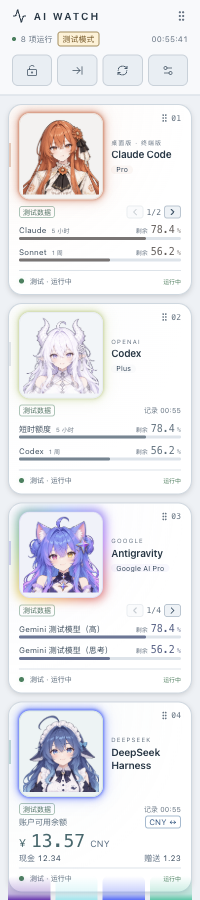
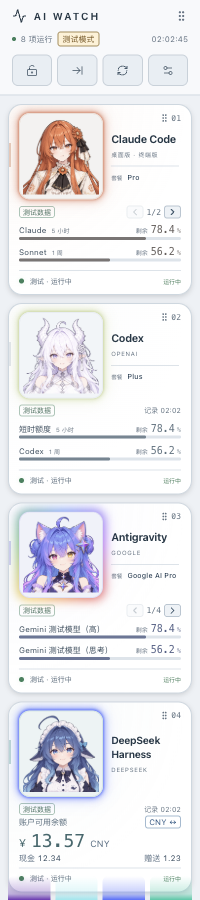
Refine anime card typography and information hierarchy

diff --git a/src/App.tsx b/src/App.tsx
@@ -98,15 +98,16 @@ function creditNumber(value: string) {
     return number.toFixed(2).replace(/\.?0+$/, '').replace(/^$/, '0');
   } catch { return '—'; }
 }
-function PlanBadge({ provider }: { provider: Provider }) {
+function PlanBadge({ provider, compact = false }: { provider: Provider; compact?: boolean }) {
   const local = provider.local;
   const plan = local?.plan;
   const expired = Boolean(plan?.expiresAt && Date.parse(plan.expiresAt) <= Date.now());
   const label = plan?.name || (local ? '套餐未知' : '示例套餐');
+  const displayLabel = compact && !plan?.name ? local ? '未知' : '示例' : label;
   const state = plan?.name ? plan.stale ? '历史' : expired ? '已到期' : '' : '';
   return <div className={`plan-summary ${plan?.stale ? 'is-stale' : ''}`} aria-label={`${provider.name} 套餐档位`}
     title={[`套餐：${label}`, plan?.status, state, plan?.expiresAt ? `有效期至 ${new Date(plan.expiresAt).toLocaleString('zh-CN')}` : ''].filter(Boolean).join(' · ')}>
-    <span className="plan-name">{label}</span>{state && <span className="plan-status">{state}</span>}
+    <span className="plan-name">{displayLabel}</span>{state && <span className="plan-status">{state}</span>}
   </div>;
 }
 function EntitlementCard({ provider, page }: { provider: Provider; page: number }) {
@@ -151,7 +152,7 @@ function ProviderCard({ provider, index, image, anime = false, onOpen, launchBus
     aria-label={`${provider.name} 面板`} data-provider={provider.id} data-attention={local?.id === 'codex' && local.activity === 'waiting'} tabIndex={0} aria-describedby="card-sort-help" onDragStart={event => event.preventDefault()}>
     <div className="card-heading">
       <LaunchAvatar provider={provider} image={image} anime={anime} onOpen={onOpen} busy={launchBusy} />
-      <div className="identity"><span className="eyebrow">{local?.id === 'claude' ? '桌面版 · 终端版' : provider.subtitle}</span><h2>{provider.name}</h2>{provider.id !== 'deepseek' && <PlanBadge provider={provider} />}</div>
+      <div className="identity"><span className="eyebrow">{local?.id === 'claude' ? '桌面版 · 终端版' : provider.subtitle}</span><h2>{provider.name}</h2>{provider.id !== 'deepseek' && <PlanBadge provider={provider} compact={anime} />}</div>
       <span className="card-index" title="长按卡片拖动排序"><GripVertical size={10} aria-hidden="true" /><span>0{index + 1}</span></span>
     </div>
     <div className="quota-area">
@@ -504,7 +505,7 @@ export default function App() {
         <div className="settings-section"><h3>启动应用</h3><p>点击卡片或收起栏图标打开应用；未找到时可手动选择安装位置。</p>{providers.map(provider => <div className="app-option" key={provider.id}>
           <span>{provider.name}</span><button disabled={choosingApp} onClick={() => void chooseProviderApp(provider)} aria-label={`选择 ${provider.name} 启动应用`}>选择应用</button>
         </div>)}</div>
-        <div className="settings-note"><span className="note-title">本地状态 · v0.12</span><p>Codex 读取本地额度与任务记录；Antigravity 优先读取本地服务，每 5 秒检查任务，每 30 秒读取额度。刷新按钮会重新读取。运行时 LOGO 显示对应颜色的光晕，Codex 待回答或待授权时优先显示红色。</p><p>DeepSeek 使用本设备 Harness 已有登录态查询余额，每分钟更新。换设备后先在 Harness 登录，面板自动识别，无需复制 Key。账号切换或退出后会清除旧余额。</p><p>Claude 自动发现桌面与终端会话，读取桌面用量历史；Free 账号不包含 Code 权限，缺少额度时明确显示不可用。DeepSeek 结合会话记录与进程识别任务活动，黄色表示等待确认。浏览器预览全部使用示例。</p>
+        <div className="settings-note"><span className="note-title">本地状态 · v0.12.1</span><p>Codex 读取本地额度与任务记录；Antigravity 优先读取本地服务，每 5 秒检查任务，每 30 秒读取额度。刷新按钮会重新读取。运行时 LOGO 显示对应颜色的光晕，Codex 待回答或待授权时优先显示红色。</p><p>DeepSeek 使用本设备 Harness 已有登录态查询余额，每分钟更新。换设备后先在 Harness 登录，面板自动识别，无需复制 Key。账号切换或退出后会清除旧余额。</p><p>Claude 自动发现桌面与终端会话，读取桌面用量历史；Free 账号不包含 Code 权限，缺少额度时明确显示不可用。DeepSeek 结合会话记录与进程识别任务活动，黄色表示等待确认。浏览器预览全部使用示例。</p>
           {displayStatus && <>{providerIds.map((id) => <p key={id}><b>{providers.find(provider => provider.id === id)!.name}</b><br />{displayStatus[id]?.detail}<br />{displayStatus[id]?.activityDetail && <>{displayStatus[id]?.activityDetail}<br /></>}{displayStatus[id]?.observedAt ? `记录时间：${new Date(displayStatus[id]?.observedAt!).toLocaleString('zh-CN')}` : '尚无可用记录'}</p>)}</>}
           <p>{state.desktop ? `桌面版 · 显示缩放 ${state.scaleFactor}×` : '浏览器预览 · 窗口操作请使用桌面版'}</p></div>
       </div>

diff --git a/src/styles.css b/src/styles.css
@@ -276,10 +276,15 @@ legend { margin-bottom: 10px; color: var(--label); font-size: 12px; }
 .anime-mode .card-heading .avatar-launch, .anime-mode .card-heading .avatar { width: 100%; height: 100%; min-height: 0; min-width: 0; }
 .anime-mode .card-heading .avatar, .anime-mode .card-heading .avatar-launch { border-radius: 11px; }
 .anime-mode .card-heading .avatar img { padding: 3px; object-fit: contain; }
-.anime-mode .identity h2 { font-size: clamp(10px, 4.4vw, 15px); overflow-wrap: anywhere; line-height: 1.25; }
-.anime-mode .eyebrow { font-size: clamp(6px, 2.6vw, 8px); letter-spacing: 1px; line-height: 1.4; }
+.anime-mode .identity { width: 100%; display: flex; flex-direction: column; align-items: stretch; justify-content: center; gap: clamp(3px, .45vh, 7px); padding-right: 2px; }
+.anime-mode .identity h2 { order: 0; margin: 0; font-size: clamp(10px, 5.4vw, 18px); font-weight: 650; overflow-wrap: anywhere; text-wrap: balance; line-height: 1.4; letter-spacing: -.4px; }
+.anime-mode .provider-card[data-provider="qwen"] .identity h2 { font-size: clamp(10px, 5vw, 17px); }
+.anime-mode .eyebrow { order: 1; font-size: clamp(6px, 2.7vw, 8.5px); letter-spacing: .55px; line-height: 1.5; }
 .anime-mode .card-index { top: 0; right: 0; }
-.anime-mode .plan-summary { margin-top: 5px; flex-wrap: wrap; gap: 2px; font-size: clamp(7px, 3vw, 10px); }
+.anime-mode .plan-summary { order: 2; display: grid; grid-template-columns: auto minmax(0, 1fr); align-items: baseline; column-gap: 5px; row-gap: 2px; margin-top: clamp(2px, .3vh, 4px); padding-top: clamp(5px, .6vh, 9px); border-top: 1px solid var(--divider); font-size: clamp(7px, 3.1vw, 10px); line-height: 1.4; }
+.anime-mode .plan-summary::before { content: '套餐'; color: var(--muted); font-size: .8em; white-space: nowrap; }
+.anime-mode .plan-name { padding: 0; border-radius: 0; background: transparent; white-space: normal; overflow-wrap: anywhere; font-weight: 500; }
+.anime-mode .plan-status { grid-column: 2; font-size: .8em; }
 .anime-mode .quota-area { gap: 3px; }
 .anime-mode .quota-list { gap: 4px; justify-content: space-evenly; }
 .anime-mode .quota-label { margin-bottom: 3px; font-size: clamp(8px, 3.7vw, 12px); }
@@ -289,9 +294,9 @@ legend { margin-bottom: 10px; color: var(--label); font-size: 12px; }
 .anime-mode .credit-value { font-size: clamp(12px, 6vw, 20px); }
 .anime-mode .balance-content { gap: 3px; }
 .anime-mode .balance-total strong { font-size: clamp(18px, 8vw, 26px); }
-.anime-mode .claude-empty { font-size: 9px; }
-.anime-mode .claude-empty strong { font-size: clamp(8px, 3.8vw, 12px); }
-.anime-mode .claude-empty p { margin-block: 3px; }
+.anime-mode .claude-empty { flex: 1; min-height: 0; display: flex; flex-direction: column; justify-content: center; padding: 4px 0; font-size: clamp(7px, 3.1vw, 10px); }
+.anime-mode .claude-empty strong { font-size: clamp(9px, 3.8vw, 12px); font-weight: 550; }
+.anime-mode .claude-empty p { margin-block: 5px 0; line-height: 1.5; }
 .anime-mode .claude-empty small { display: none; }
 .anime-mode .credits-empty p { margin-top: 2px; -webkit-line-clamp: 1; }
 .anime-mode .credits-empty > span { font-size: 15px; margin-top: 2px; }

diff --git a/docs/QA.md b/docs/QA.md
@@ -1,10 +1,14 @@
-# v0.12 验收记录
+# v0.12.1 验收记录
 
-验收日期：2026-10-03。平台：macOS / Apple Silicon。以下保留既有版本的接入与操作记录。v0.12 新增图标启动、二次元模式与独立图片存储，已验收七张角色原图和 WorkBuddy 占位图。v0.11 新增七模块统一套餐标签、WorkBuddy / 千问积分横排、缺失套餐判断与双尺寸主题检查；保留 v0.10 千问 / WorkBuddy、八模块迁移及读取权限检查；程序化指针交互和原生鼠标命中分别验收。
+验收日期：2026-10-03。平台：macOS / Apple Silicon。以下保留既有版本的接入与操作记录。v0.12.1 优化角色右侧名称 / 来源 / 套餐层级和居中空额度提示。v0.12 新增图标启动、二次元模式与独立图片存储，已验收七张角色原图和 WorkBuddy 占位图。v0.11 新增七模块统一套餐标签、WorkBuddy / 千问积分横排、缺失套餐判断与双尺寸主题检查；保留 v0.10 千问 / WorkBuddy、八模块迁移及读取权限检查；程序化指针交互和原生鼠标命中分别验收。
 
 | 检查 | 结果 |
 | --- | --- |
 | TypeScript 检查与生产构建 | 通过 |
+| v0.12.1 卡片布局 | 二次元专项交互检查通过并正常退出；320×1440 / 200×900、深浅主题下名称与套餐不越界、不与人物重叠，Free 空额度提示完整居中；普通 LOGO 和二次元图片独立、图标启动与分页保持 |
+| v0.12.1 视觉预览 | 九张合成截图更新；首屏、后四卡与单卡空额度预览目视通过，不包含真实账户数据 |
+| v0.12.1 套餐语义回归 | plans 专项检查通过；普通模式完整标签保留，未知不推断档位、历史 / 到期、额度与套餐独立等语义保持；二次元模式使用“套餐 · 未知”，完整含义保留在悬停说明 |
+| v0.12.1 原生应用包 | 最终 macOS Apple Silicon 应用启动并目视通过；真实名称、独立套餐行和 Claude 空额度说明排版完整，既有二次元 / 系统主题 / 锁定偏好保留；归档中 35 个文件与最终构建一致，ZIP 完整性检查通过 |
 | v0.12 单元检查 | 136 项全部通过；包含八模块启动白名单、目标校验、测试隔离、重复点击、隐私错误提示、模式与启动位置偏好保存 |
 | v0.12 桌面交互 | anime / sort / modules 全部通过并正常退出；八图标鼠标 / 键盘、长按隔离、双套图片、冷启动、收起栏、失败提示和模拟启动隔离通过 |
 | v0.12 二次元布局 | 320×1440 与 200×900、深浅主题通过；图片框面积在卡片的 20%～28%，全部额度可分页，内容与底栏无重叠，滚动活动与红灯优先保持 |
@@ -12,7 +16,6 @@
 | v0.12 原生应用包 | Apple Silicon 打包和启动通过；原生点击二次元开关生效，真实首屏及后四卡显示正常，测试模式关闭，既有主题 / 锁定 / 模块偏好保留 |
 | v0.12 原生启动反馈 | 点击 WorkBuddy 图标成功提交系统打开请求，应用保持运行；收起栏点击未配置的 Kimi 图标自动展开，并显示选择启动应用提示。其他应用尚未逐一执行真实打开；Windows / Linux 待实机验收 |
 | v0.12 包内容 | 打包归档中的 35 个前端 / 主进程文件与构建源一致，版本为 0.12.0；ZIP 完整性检查通过 |
-
 | v0.11 单元检查 | 122 项全部通过，新增套餐白名单、空值清理、登录失效、请求独立失败、限流与历史状态检查 |
 | v0.11 套餐与积分布局 | 七个套餐标签位于名称下；两个积分池左右对齐，行间分隔；320×1440 和 200×900 下的明暗主题、内容与底栏无重叠，自动检查和合成截图目视通过 |
 | v0.11 档位语义 | 五个新增套餐、七卡统一位置、未知不推断 Free、历史 / 到期、Claude 无额度与套餐独立通过 |
